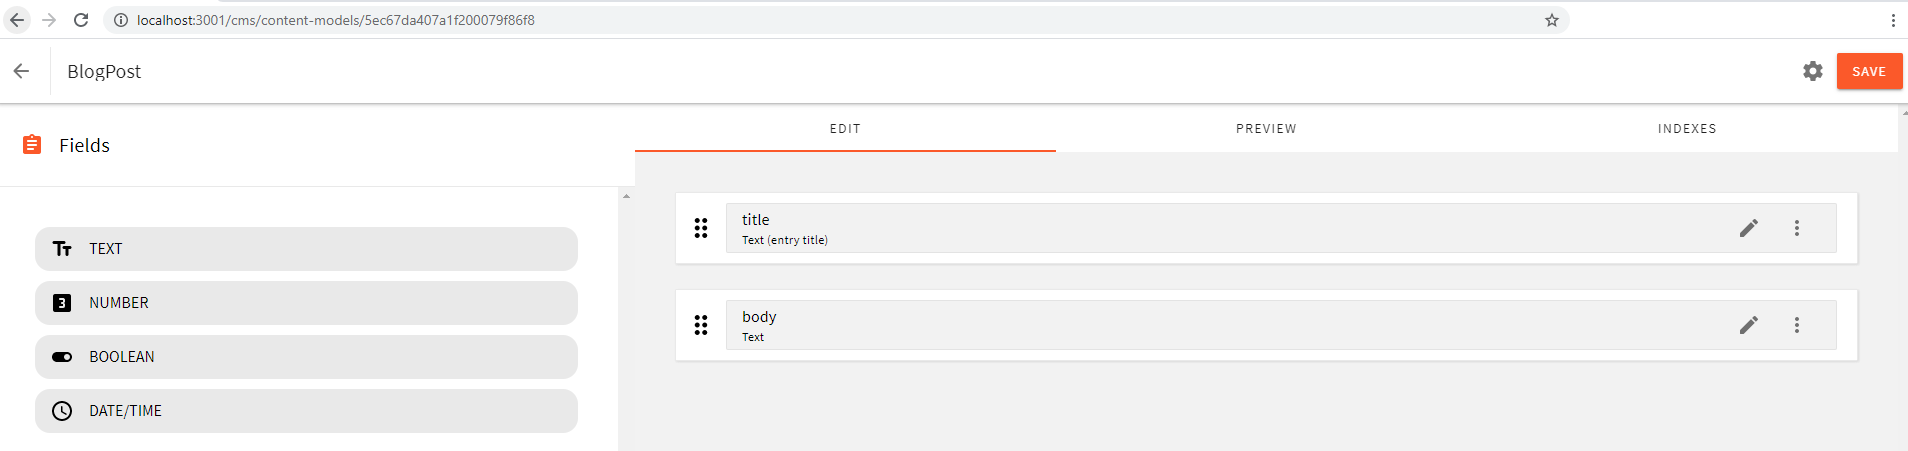
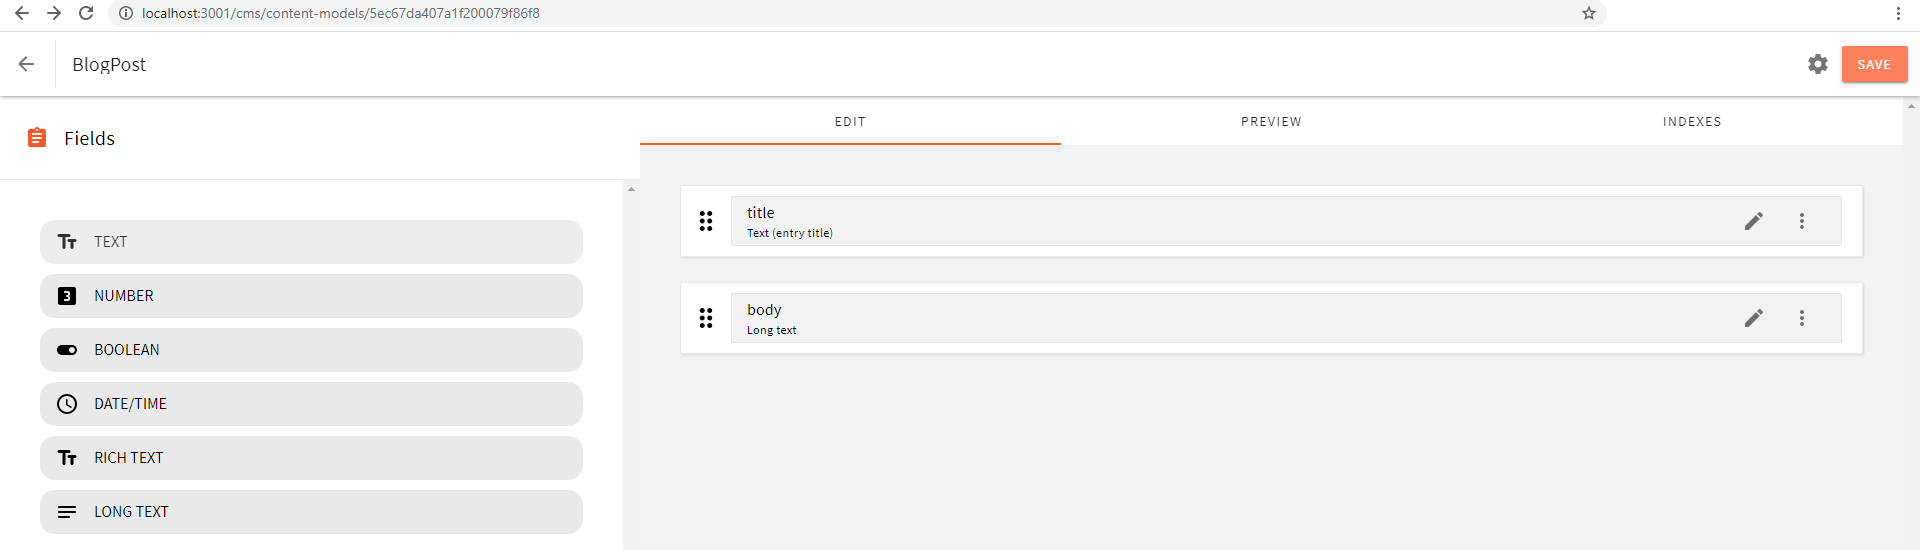
feat: improve docs

diff --git a/docs/guides/headless-gatsby-tutorial.md b/docs/guides/headless-gatsby-tutorial.md
@@ -26,11 +26,15 @@ Create a new content model named `BlogPost` inside the default `Ungrouped` conte
 
 Model groups are a way how you organize the content models inside the main menu, allowing you to build logical sections for your content editors. Every model must belong to a group. You can create as many groups as you need by navigating to **Headless CMS > Content Models > Groups**.  
 
-Next, add two **Text** fields by dragging and dropping them. Label them `title` and `body`, which will match every blog post's title and content. Optionally, it is possible make both of the fields **required** in the `Validators` tab.
+Next, add two fields: `title` as a `Text` and `body` as a `Long Text`. They will match every blog post's title and content. Optionally, it is possible make both of the fields **required** in the `Validators` tab.
 
 Save your new fields before leaving the page and you will be able to create, publish and remove `BlogPost` entries. This is what your model should look like in the `admin` app:
 
 ![Blog post model](/img/guides/headless-gatsby-tutorial/blog-post-model.png)
+
+You can read your data from your API by navigating to its `/cms/read/production` path, eg: https://dfgk2kz3e3qhn.cloudfront.net/cms/read/production - your URL will of course be different.
+
+Note that you will need a Personal Access Token in order to authenticate and use your API. We will create one soon.
 
 ## Managing Blog Posts
 
@@ -46,9 +50,15 @@ This will generate a new folder in your working directory. Make sure the Gatsby 
 
 ## Pulling GraphQL data (Blog Posts) into Gatsby
 
-Install and use [gatsby-source-graphql](https://www.gatsbyjs.org/packages/gatsby-source-graphql/) to fetch the Blog Posts into your Gatsby app.
+<!--
+You need to create a Personal Access Token in order to access your API. Go to your account in **Webiny's Admin app > Personal Access Tokens > Create Token**. Save the token.
+-->
 
-Add the plugin in the `plugins` array found in **gatsby-config.js** and configure its **options** like below. Most importantly, replace `YOUR_API_URL` with your API's url.
+Navigate to your Gatsby project's directory `myBlog` and install [gatsby-source-graphql](https://www.gatsbyjs.org/packages/gatsby-source-graphql/) plugin by running `npm i gatsby-source-graphql`. This will allow us to  fetch the Blog Posts into your Gatsby app.
+
+Add the plugin in the `plugins` array found in **gatsby-config.js** (located in the root of your Gatsby project) and configure its **options** like below. Most importantly, replace `YOUR_API_URL` with your API's url.
+ 
+<!--and `<YOUR_TOKEN>` with the token you created earlier (eg: `d3b45980479...`).-->
 
 ```
 {
@@ -56,16 +66,20 @@ Add the plugin in the `plugins` array found in **gatsby-config.js** and configur
   options: {
     typeName: "someTypeName",
     fieldName: "webinyHeadlessCms",
-    url: "<YOUR_API_URL>/cms/read/production",
+    url: "<YOUR_API_URL>/cms/read/production"
   },
 }
 ```
 
-We are using the `read` API in order to pull Blog Post data and the `production` alias which points to the `production` environment, because that's where we published our content earlier.
+<!--headers: {
+    authorization: "<YOUR_TOKEN>"
+}-->
+
+We are using the `read` API in order to pull Blog Post data and the `production` alias which points to the `production` environment, because that is where we published our content earlier.
 
 ## Displaying blog posts
 
-Go to `myBlog/src/pages/index.js` and export a GraphQL query that pulls the Blog Posts:
+Go to `src/pages/index.js` and export a GraphQL query that pulls the Blog Posts:
 
 ```js
 export const query = graphql`{
@@ -86,11 +100,24 @@ This will supply `data` in our `IndexPage` component, where we have our Posts. T
 
 ```
 const IndexPage = ({data}) => {
-    const blogPosts = data.webinyHeadlessCms.listBlogPosts.data
+  const blogPosts = data.webinyHeadlessCms.listBlogPosts.data
 
-    return /* ... use [blogPosts] to render the data here ... */
+  const BlogPosts = blogPosts.map(post => (
+    <div key={`post-${post.id}`}>
+      <h1>{post.title}</h1>
+      <p style={{whiteSpace: "pre-wrap"}}>{post.body}</p>
+    </div>
+  ))
+
+  return (
+    <Layout>
+      {BlogPosts}
+    </Layout>
+  )
 }
 ```
+
+Run `gatsby develop` and you will be able to see your blog posts in Gatsby's development mode.
 
 Here's what `index.js` looks like in [our demo](https://github.com/webiny/webiny-examples/blob/master/headlesscms-gatsby/src/pages/index.js).
 
